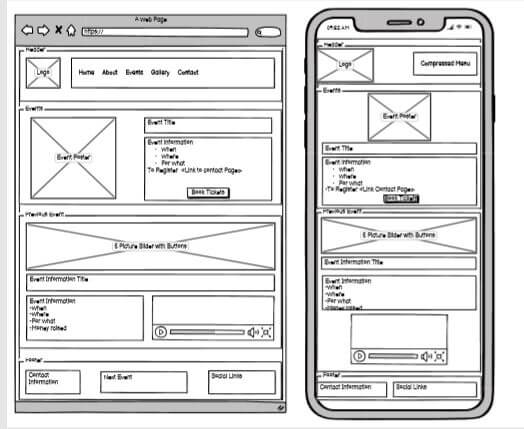
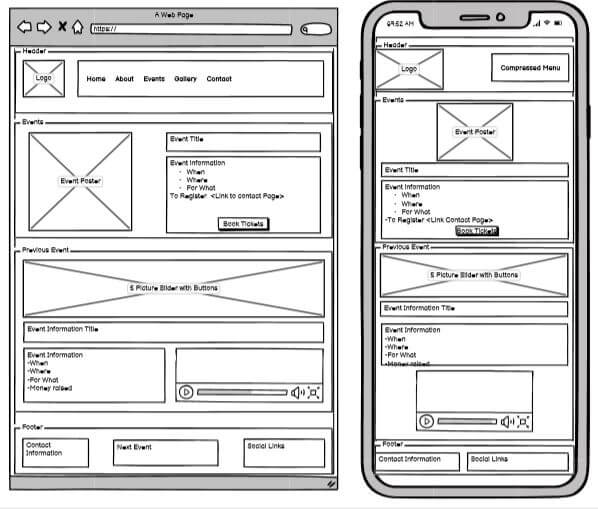
Fixed small wireframe screenshot, added carousel info

diff --git a/README.md b/README.md
@@ -110,11 +110,15 @@ The headers on all pages throughout the Website are using the **Libre Baskervill
 Brand is important to HOTD and they have provided their own Logo to be used in the Nav section of the website that will be displayed at all
 times no matter the device. The size and placement may vary dependant on screen size. Photo's of club members and events will be present throughout the Website. These images have been provided by the club's found Ronnie Robinson.
 #### Wireframes
-
+Home Page
 ![Home Page Wireframe](assets/images/readme-images/home-wireframe.JPG)
+About Page
 ![About Page Wireframe](assets/images/readme-images/about-wireframe.JPG)
+Event Page
 ![Events Page Wireframe](assets/images/readme-images/events-wireframe.JPG)
+Gallery Page
 ![Gallery Page Wireframe](assets/images/readme-images/gallery-wireframe.JPG)
+Contact Page
 ![Contact Page Wireframe](assets/images/readme-images/contact-wireframe.JPG)
 
 For full side PDF's of the wireframes, please click the links below
@@ -137,7 +141,7 @@ Programs Used section, the contact forms will not store data or send email reque
 - Alert on Desktop view (Alert present on index.html, about.html, gallery.html, contact.html) - This alert allows users to Book event tickets by opening up a modal form.
 - Booking button on the events.html page opens up the booking modal form (The same one as the alert)
 - Contact Form - This can be completed on the contact.html page and used in order to contact the club with any queries users may have.
-- Slide Show Gallery - This allows users to go through pictures of successful past events. This Gallery is controlled by the user.
+- Carousel Gallery - There are 4 carousel sliders within the Website. One is on the Event Page displaying a few slides from a successfull fundraiser for Lifeline Inishowen. The remaining three are on the Gallery Page and are only displayed on small screen sizes to prevent the need for excessive scrolling.
 - Embedded YouTube video - This past event video can be turned on/off by the user. It is not set to automatically run.
 
 ### Features Left to Implement
